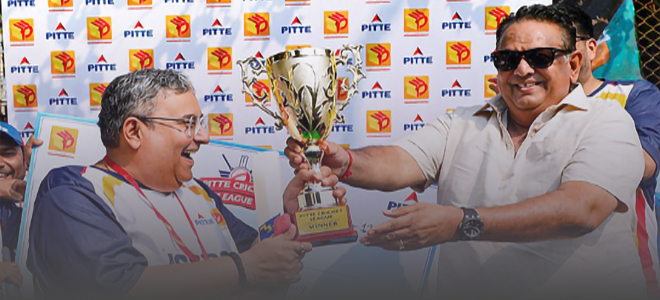
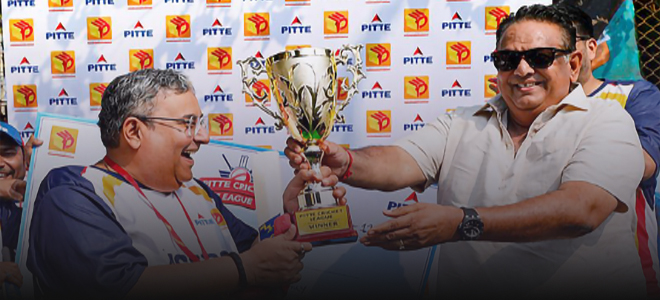
changes for images and responsive

diff --git a/index.html b/index.html
@@ -830,7 +830,7 @@
                             </div>
                         </div>
                         <div class="Services-box-item col-5">
-                            <img src="assets/homePage/why-join-us4.jpeg" alt="Customs Clearance" />
+                            <img src="assets/homePage/why-join-us4.jpg" alt="Customs Clearance" />
                             <div class="services-content">
                                 <span class="sub-heading">Diversity & Inclusion</span>
                                 <h3>Different Voices, One Vision</h3>
